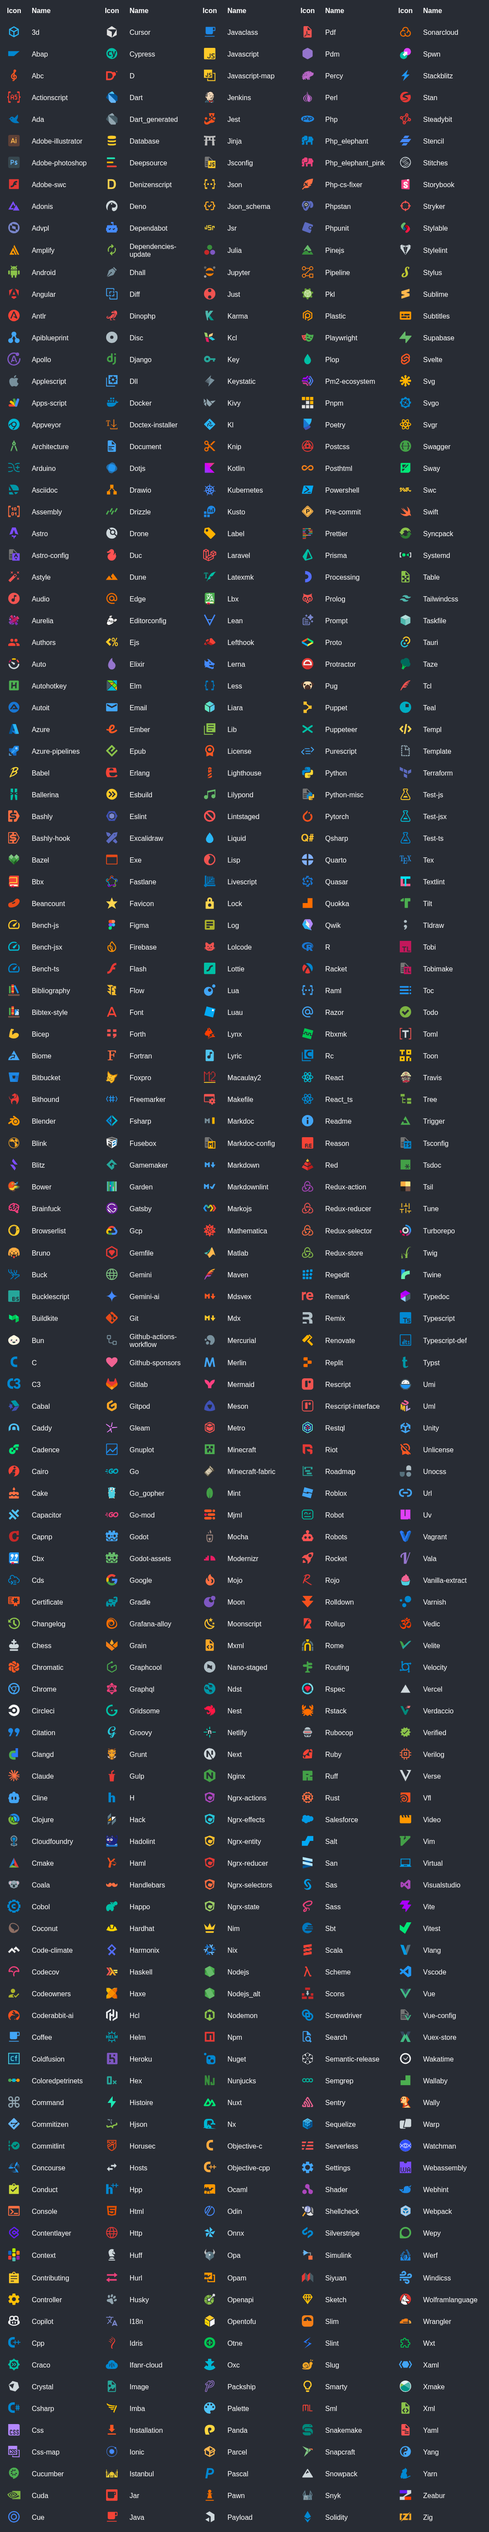
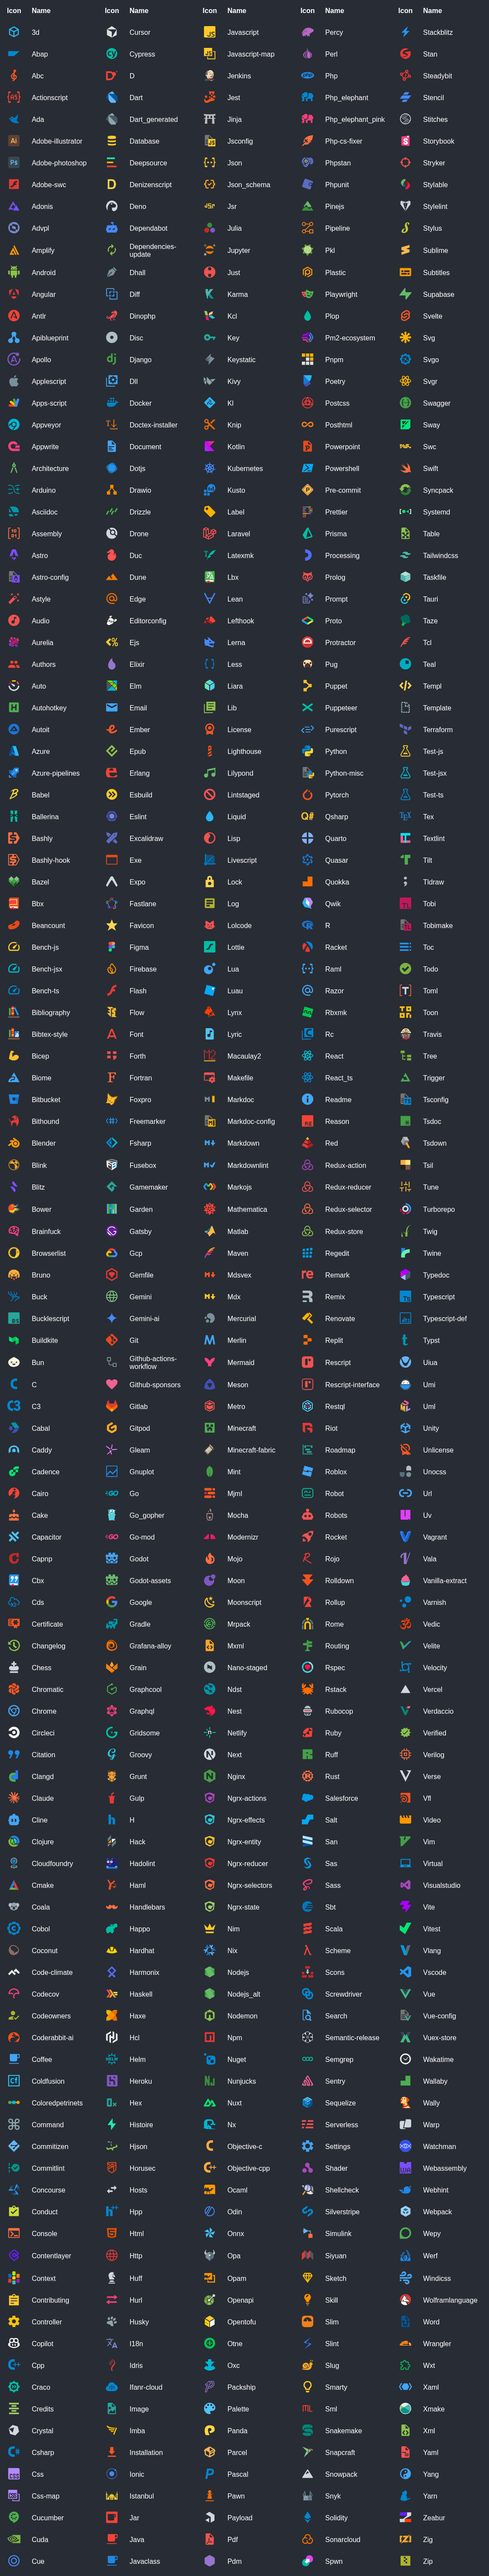
release: 🔖 v1.42.0

diff --git a/CHANGELOG.md b/CHANGELOG.md
@@ -3,10 +3,43 @@
  All notable changes to this project will be documented in this file. Dates are displayed in UTC.
 
  
+#### [v1.42.0](https://github.com/lucodear/lucodear-icons/compare/v1.41.0...v1.42.0) 
+
+> May 6, 2026 
+
+- feat(icon): add redis icon [`#3450`](https://github.com/lucodear/lucodear-icons/pull/3450)
+- feat(icon): add zed folder icon [`#3442`](https://github.com/lucodear/lucodear-icons/pull/3442)
+- feat: add folder associations for rust/cargo projects [`#3447`](https://github.com/lucodear/lucodear-icons/pull/3447)
+- feat: add uiua file icon [`#3408`](https://github.com/lucodear/lucodear-icons/pull/3408)
+- feat: support jxl image file type [`#3444`](https://github.com/lucodear/lucodear-icons/pull/3444)
+- feat: Add support for vercel.ts icon (typed Vercel configuration) [`#3441`](https://github.com/lucodear/lucodear-icons/pull/3441)
+- feat: add new icons for mrpack [`#3439`](https://github.com/lucodear/lucodear-icons/pull/3439)
+- feat: add tsdown icon [`#3418`](https://github.com/lucodear/lucodear-icons/pull/3418)
+- feat: add CAD file extensions to 3d icon mapping [`#3436`](https://github.com/lucodear/lucodear-icons/pull/3436)
+- chore: improve release process [`b959b483`](https://github.com/lucodear/lucodear-icons/commit/b959b483)
+- chore(release): v5.34.0 [`0aa11bee`](https://github.com/lucodear/lucodear-icons/commit/0aa11bee)
+- feat: new icons for eas files [`#3425`](https://github.com/lucodear/lucodear-icons/pull/3425)
+- feat(icon): add kotlin folder icon [`#3431`](https://github.com/lucodear/lucodear-icons/pull/3431)
+- feat: add external, externals and thirdparty to folder-lib icons [`#3434`](https://github.com/lucodear/lucodear-icons/pull/3434)
+- feat: Add Postman Folder [`#3376`](https://github.com/lucodear/lucodear-icons/pull/3376)
+- feat: added gitea workflows icon [`#3427`](https://github.com/lucodear/lucodear-icons/pull/3427)
+- feat(icon): assembly file/folder icons [`#3397`](https://github.com/lucodear/lucodear-icons/pull/3397)
+- feat(icon): add go-lang folder icon [`#3391`](https://github.com/lucodear/lucodear-icons/pull/3391)
+- feat(icon): add appwrite icons [`#3392`](https://github.com/lucodear/lucodear-icons/pull/3392)
+- chore(deps): update actions/github-script action to v9 [`#3422`](https://github.com/lucodear/lucodear-icons/pull/3422)
+- chore(deps): update actions/create-github-app-token action to v3.1.1 [`#3424`](https://github.com/lucodear/lucodear-icons/pull/3424)
+- chore(release): v5.33.1 [`e6f371b1`](https://github.com/lucodear/lucodear-icons/commit/e6f371b1)
+- fix(workflows): release to npm [`0e16f306`](https://github.com/lucodear/lucodear-icons/commit/0e16f306)
+- chore(release): v5.33.0 [`e30dca26`](https://github.com/lucodear/lucodear-icons/commit/e30dca26)
+- feat: add folder and icon for skills [`#3367`](https://github.com/lucodear/lucodear-icons/pull/3367)
+- chore(deps): update actions/create-github-app-token action to v3 [`#3395`](https://github.com/lucodear/lucodear-icons/pull/3395)
+- feat: update file icon patterns for Rspress and Rslint [`#3414`](https://github.com/lucodear/lucodear-icons/pull/3414)
+ 
 #### [v1.41.0](https://github.com/lucodear/lucodear-icons/compare/v1.40.0...v1.41.0) 
 
 > April 15, 2026 
 
+- release: 🔖 v1.41.0 [`57d6fca5`](https://github.com/lucodear/lucodear-icons/commit/57d6fca5)
 - feat: ✨ Add more bea/osb file types and extensions [`3881c393`](https://github.com/lucodear/lucodear-icons/commit/3881c393)
  
 #### [v1.40.0](https://github.com/lucodear/lucodear-icons/compare/v1.39.0...v1.40.0) 
